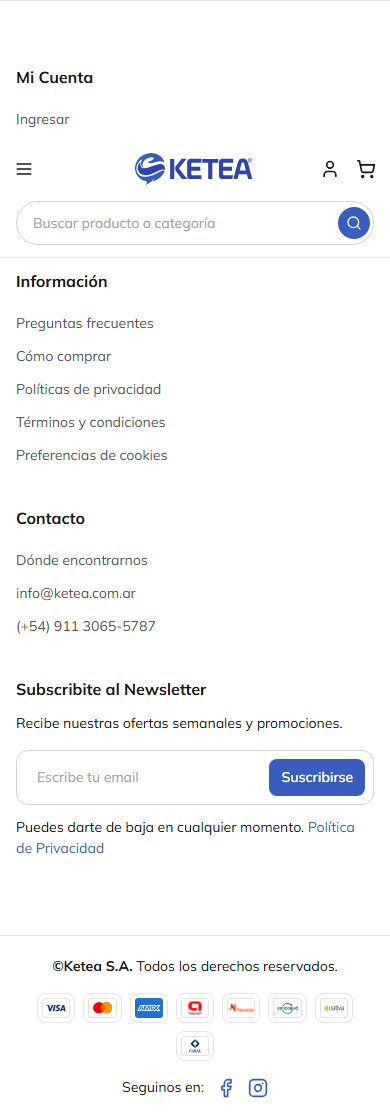
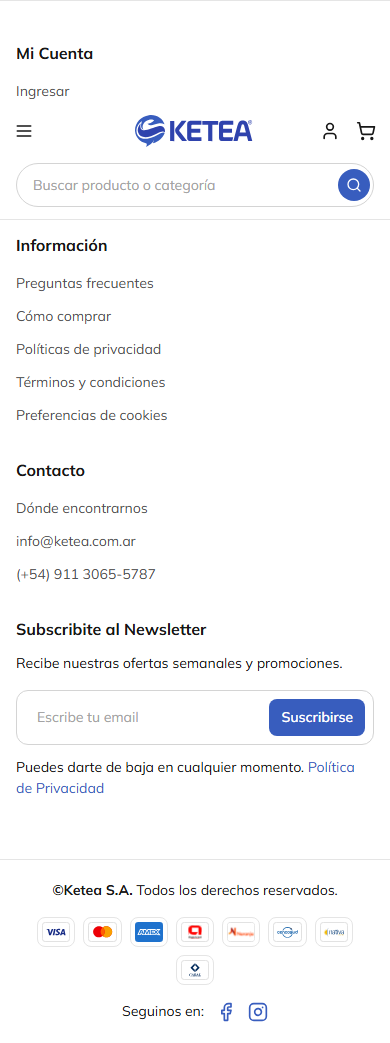
feat: bloques de servicio con ilustraciones en la portada y footer con columnas 2/2/2/5

diff --git a/app/page.tsx b/app/page.tsx
@@ -1,16 +1,14 @@
-import { Truck, ShieldCheck, CreditCard, Headset } from "lucide-react"
 import ProductCard from "@/components/patterns/product-card"
 import Hero from "@/components/hero"
-import { TrustStrip, type TrustItem } from "@/components/patterns/trust-strip"
+import { ServiceBlocks, type ServiceBlock } from "@/components/patterns/service-blocks"
 import { PromoBanner } from "@/components/patterns/promo-banner"
 import { SectionHeader } from "@/components/patterns/section-header"
 import { getFeatured, getProductsByCategory } from "@/lib/products"
 
-const TRUST_ITEMS: TrustItem[] = [
-  { icon: <ShieldCheck className="icon-md" />, title: "Compra segura",        desc: "Tus datos, protegidos" },
-  { icon: <CreditCard className="icon-md" />,  title: "Hasta 12 cuotas",     desc: "Sin interés con tarjeta" },
-  { icon: <Truck className="icon-md" />,       title: "Envío gratis", desc: "En productos seleccionados" },
-  { icon: <Headset className="icon-md" />,     title: "Te ayudamos",          desc: "WhatsApp, 9 a 18 h" },
+const SERVICES: ServiceBlock[] = [
+  { image: "/assets/svg/icons/icon1.svg", title: "Soporte 24/7", desc: "Contáctanos las 24 horas, los 7 días de la semana." },
+  { image: "/assets/svg/icons/icon2.svg", title: "30 días de devolución", desc: "Reembolso completo dentro de los 30 días posteriores a la compra." },
+  { image: "/assets/svg/icons/icon3.svg", title: "Envío gratuito", desc: "Recibe automáticamente envío estándar gratuito en cada pedido." },
 ]
 
 export default function HomePage() {
@@ -21,7 +19,7 @@ export default function HomePage() {
     <div>
       <Hero />
 
-      <TrustStrip items={TRUST_ITEMS} />
+      <ServiceBlocks items={SERVICES} />
 
       <section className="max-w-7xl mx-auto px-4 md:px-6 py-14">
         <SectionHeader title="Productos destacados" href="/productos" />

diff --git a/styles/patterns/footer.css b/styles/patterns/footer.css
@@ -2,10 +2,18 @@
    Cuatro columnas (cuenta, información, contacto, newsletter) y barra inferior con medios de pago y redes. */
 @layer components {
   .footer { border-top: var(--border-width-sm) solid var(--color-border-default); background-color: var(--color-surface-default); color: var(--color-text-primary); }
-  .footer--spaced { margin-top: var(--space-20); }
-  .footer__grid { padding-block: var(--space-14); }
+  .footer--spaced { margin-top: var(--space-12); }
+  /* Columnas: 1 en mobile, 2 en tablet; en desktop tres de 2/12 y el newsletter de 5/12, repartidas a lo ancho. */
+  .footer__grid { display: grid; grid-template-columns: minmax(0, 1fr); gap: var(--space-8); padding-block: var(--space-10) var(--space-12); }
+  @media (min-width: 640px) { .footer__grid { grid-template-columns: repeat(2, minmax(0, 1fr)); } }
+  @media (min-width: 1024px) {
+    .footer__grid { display: flex; justify-content: space-between; gap: var(--space-6); }
+    .footer__col { flex: 0 0 calc(100% / 6); }
+    .footer__col--wide { flex-basis: calc(100% * 5 / 12); }
+  }
+  .footer__col { min-width: 0; }
 
-  .footer__heading { margin-bottom: var(--space-5); font-size: var(--font-size-md); line-height: var(--font-line-height-md); font-weight: var(--font-weight-bold); color: var(--color-text-primary); }
+  .footer__heading { margin-bottom: var(--space-4); font-size: var(--font-size-md); line-height: var(--font-line-height-md); font-weight: var(--font-weight-bold); color: var(--color-text-primary); }
   .footer__heading--tight { margin-bottom: var(--space-1); }
   .footer__list { display: flex; flex-direction: column; gap: var(--space-3); font-size: var(--font-size-sm); line-height: var(--font-line-height-sm); }
   .footer__text { color: var(--color-text-secondary); }

diff --git a/components/footer.tsx b/components/footer.tsx
@@ -29,7 +29,7 @@ const CARDS = ["visa", "mastercard", "amex", "argencard", "naranja", "cencosud",
 
 function FooterLinks({ title, links }: { title: string; links: string[][] }) {
   return (
-    <div>
+    <div className="footer__col">
       <h2 className="footer__heading">{title}</h2>
       <ul className="footer__list">
         {links.map(([label, href]) => (
@@ -56,11 +56,11 @@ export default function Footer() {
 
   return (
     <footer className={cn("footer", !flush && "footer--spaced")}>
-      <div className="footer__grid max-w-7xl mx-auto px-4 md:px-6 grid grid-cols-1 sm:grid-cols-2 lg:grid-cols-4 gap-10">
+      <div className="footer__grid max-w-7xl mx-auto px-4 md:px-6">
         <FooterLinks title="Mi Cuenta" links={ACCOUNT_LINKS} />
         <FooterLinks title="Información" links={INFO_LINKS} />
 
-        <div>
+        <div className="footer__col">
           <h2 className="footer__heading">Contacto</h2>
           <ul className="footer__list">
             <li><Link href="/contacto" className="footer__link">Dónde encontrarnos</Link></li>
@@ -69,7 +69,7 @@ export default function Footer() {
           </ul>
         </div>
 
-        <div>
+        <div className="footer__col footer__col--wide">
           <h2 className="footer__heading footer__heading--tight">Subscribite al Newsletter</h2>
           <p className="footer__lead">Recibe nuestras ofertas semanales y promociones.</p>
           <form onSubmit={handleSubmit} className="footer__newsletter">

diff --git a/components/patterns/service-blocks.tsx b/components/patterns/service-blocks.tsx
@@ -1,0 +1,30 @@
+import Image from "next/image"
+import { Heading, Text } from "@/components/ui/text"
+
+export interface ServiceBlock {
+  /** Ilustración (SVG) que va a la izquierda del texto. */
+  image: string
+  title: string
+  desc: string
+}
+
+/** Bloques de servicio (soporte, devolución, envío): tarjeta con borde y una ilustración por ítem — clases de styles/patterns/service-blocks.css. */
+export function ServiceBlocks({ items }: { items: ServiceBlock[] }) {
+  return (
+    <section aria-label="Servicios" className="service-blocks">
+      <div className="max-w-7xl mx-auto px-4 md:px-6">
+        <div className="service-blocks__card grid grid-cols-1 md:grid-cols-3 gap-6">
+          {items.map((item) => (
+            <div key={item.title} className="service-block">
+              <Image src={item.image} alt="" width={120} height={120} className="service-block__image" />
+              <div>
+                <Heading as="p" size="md" className="service-block__title">{item.title}</Heading>
+                <Text size="sm" tone="secondary">{item.desc}</Text>
+              </div>
+            </div>
+          ))}
+        </div>
+      </div>
+    </section>
+  )
+}

diff --git a/styles/patterns/service-blocks.css b/styles/patterns/service-blocks.css
@@ -1,0 +1,13 @@
+/* Bloques de servicio (Figma: Service blocks). Tarjeta con borde; cada ítem lleva una ilustración de 80px a la izquierda. */
+@layer components {
+  .service-blocks { padding-block: var(--space-8); }
+  .service-blocks__card {
+    padding: var(--space-6);
+    border: var(--border-width-sm) solid var(--color-border-default);
+    border-radius: var(--radius-xl);
+    background-color: var(--color-surface-default);
+  }
+  .service-block { display: flex; align-items: center; gap: var(--space-4); }
+  .service-block__image { flex-shrink: 0; width: var(--space-20); height: var(--space-20); }
+  .service-block__title { margin-bottom: var(--space-1); font-weight: var(--font-weight-medium); }
+}

diff --git a/app/globals.css b/app/globals.css
@@ -38,6 +38,7 @@
 @import "../styles/patterns/order-confirmation.css";
 @import "../styles/patterns/how-it-works.css";
 @import "../styles/patterns/promo-banner.css";
+@import "../styles/patterns/service-blocks.css";
 @import "../styles/patterns/footer.css";
 @import "../styles/patterns/floating-bar.css";
 @import "../styles/patterns/newsletter.css";
